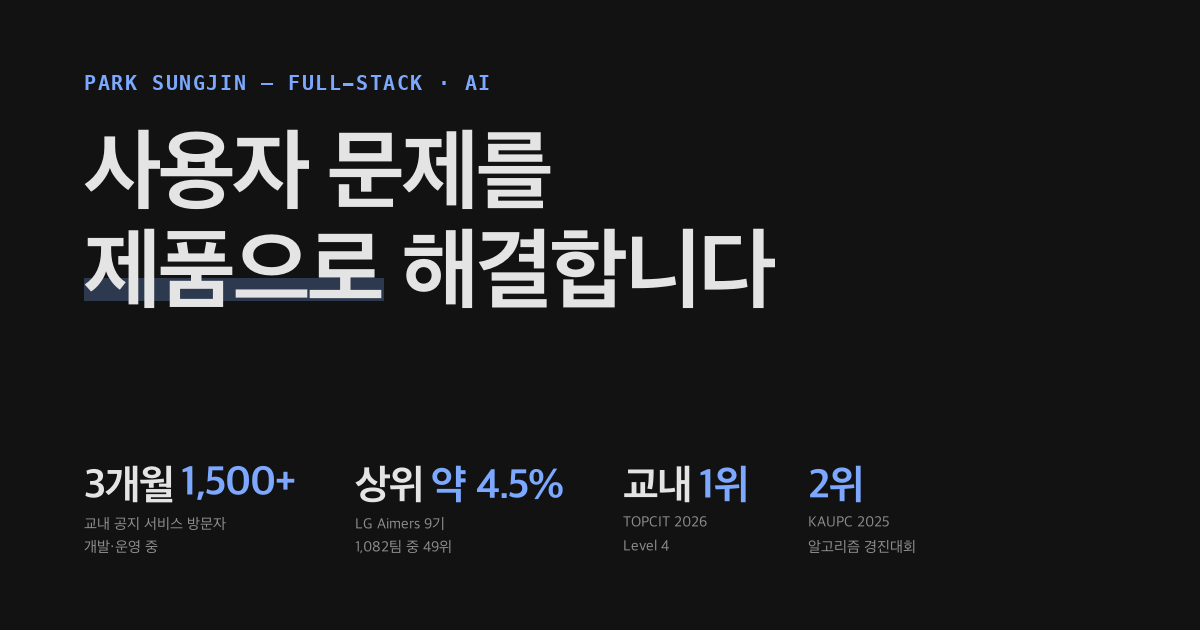
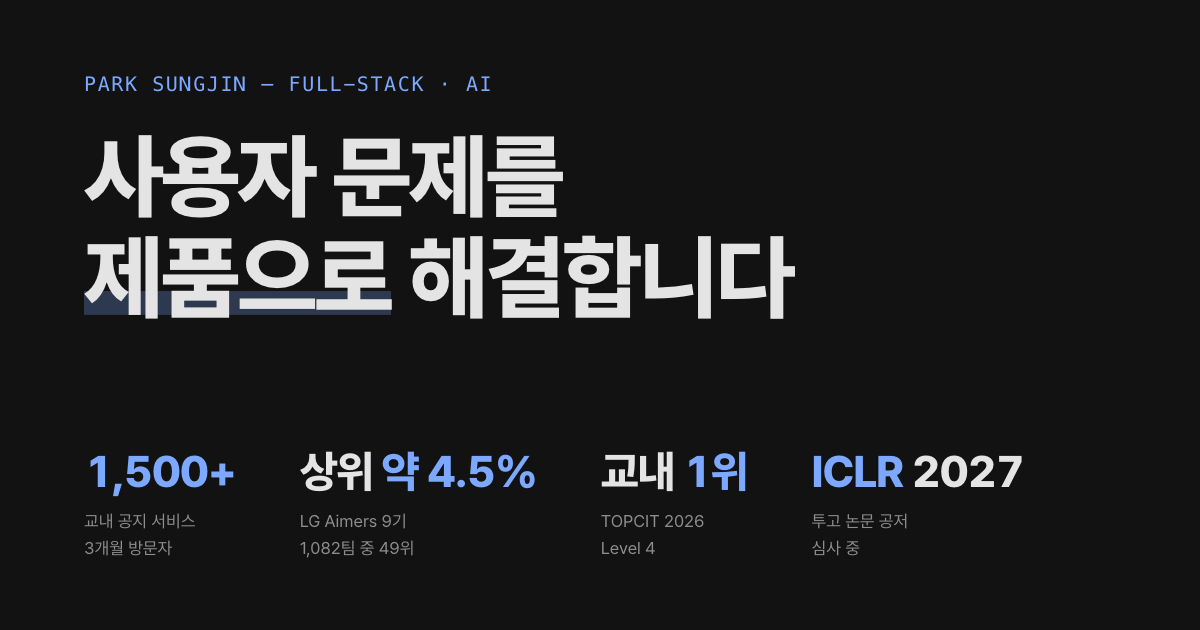
OG 이미지를 현재 히어로 지표로 다시 렌더(Pretendard)
- 지표: 1,500+ / 상위 약 4.5% / 교내 1위 / ICLR 2027 (KAUPC 2위 제거)
- 원본 tools/og.html 추가, README에 재렌더 명령 기록
- og:description 갱신, og:image에 ?v=2를 붙여 링크 프리뷰 캐시 갱신 유도

diff --git a/tools/og.html b/tools/og.html
@@ -1,0 +1,24 @@
+<!doctype html>
+<html lang="ko"><head><meta charset="utf-8">
+<link rel="stylesheet" href="https://cdn.jsdelivr.net/gh/orioncactus/pretendard@v1.3.9/dist/web/static/pretendard.min.css">
+<style>
+*{margin:0;padding:0;box-sizing:border-box}
+html,body{width:1200px;height:630px;background:#121212;color:#E4E4E4;overflow:hidden}
+body{font-family:Pretendard,"Apple SD Gothic Neo",sans-serif;padding:72px 84px 0;-webkit-font-smoothing:antialiased}
+.eyebrow{font-family:ui-monospace,"SF Mono",Menlo,monospace;font-size:20px;letter-spacing:.08em;color:#7CA9FF;text-transform:uppercase}
+h1{margin-top:30px;font-size:92px;font-weight:800;line-height:1.1;letter-spacing:-0.03em}
+.ul{background:linear-gradient(rgba(124,169,255,.26),rgba(124,169,255,.26)) no-repeat 0 80%/100% .26em}
+.stats{position:absolute;left:84px;right:84px;top:448px;display:flex;gap:64px;list-style:none}
+.num{font-size:44px;font-weight:800;letter-spacing:-0.03em;line-height:1.1;white-space:nowrap;font-variant-numeric:tabular-nums}
+.num em{font-style:normal;color:#7CA9FF}
+.lab{margin-top:12px;font-size:17px;line-height:1.55;color:rgba(255,255,255,.52)}
+</style></head><body>
+<p class="eyebrow">Park Sungjin — Full-stack · AI</p>
+<h1>사용자 문제를<br><span class="ul">제품으로</span> 해결합니다</h1>
+<ul class="stats">
+<li><b class="num"><em>1,500+</em></b><p class="lab">교내 공지 서비스<br>3개월 방문자</p></li>
+<li><b class="num">상위 <em>약 4.5%</em></b><p class="lab">LG Aimers 9기<br>1,082팀 중 49위</p></li>
+<li><b class="num">교내 <em>1위</em></b><p class="lab">TOPCIT 2026<br>Level 4</p></li>
+<li><b class="num"><em>ICLR</em> 2027</b><p class="lab">투고 논문 공저<br>심사 중</p></li>
+</ul>
+</body></html>

diff --git a/index.html b/index.html
@@ -12,9 +12,9 @@ document.documentElement.setAttribute('data-theme',t);})();
 <meta name="description" content="실사용자가 있는 RAG 서비스를 운영하고, 운영 데이터로 연구하는 풀스택·AI 개발자 박성진. 교내 공지 통합 서비스 KAU Notice Hub 운영(3개월 방문 1,500+), LG Aimers 9기 1,082팀 중 49위, TOPCIT 교내 1위.">
 <meta property="og:type" content="website">
 <meta property="og:title" content="박성진 — 풀스택·AI 개발자">
-<meta property="og:description" content="교내 공지 서비스 3개월 방문 1,500+ 운영 · LG Aimers 9기 상위 약 4.5% · TOPCIT 교내 1위">
+<meta property="og:description" content="교내 공지 RAG 서비스 3개월 방문 1,500+ 운영 · LG Aimers 9기 상위 약 4.5% · TOPCIT 교내 1위 · ICLR 2027 투고 논문 공저">
 <meta property="og:url" content="https://jinpop.github.io/">
-<meta property="og:image" content="https://jinpop.github.io/og.png">
+<meta property="og:image" content="https://jinpop.github.io/og.png?v=2">
 <meta property="og:locale" content="ko_KR">
 <meta name="twitter:card" content="summary_large_image">
 <link rel="canonical" href="https://jinpop.github.io/">

diff --git a/README.md b/README.md
@@ -9,6 +9,7 @@
 ```
 index.html   페이지 전체 (HTML · CSS · JS 인라인)
 og.png       링크 프리뷰용 OG 이미지 (1200×630)
+tools/og.html  og.png 원본 — 수정 후 아래 명령으로 다시 렌더
 img/         프로젝트 스크린샷 (WebP)
 ```
 
@@ -25,4 +26,10 @@ img/         프로젝트 스크린샷 (WebP)
 
 ```bash
 python3 -m http.server 4173
+```
+
+## OG 이미지 다시 만들기
+
+```bash
+"/Applications/Google Chrome.app/Contents/MacOS/Google Chrome" --headless=new --hide-scrollbars --force-device-scale-factor=1 --window-size=1200,630 --virtual-time-budget=8000 --screenshot="$PWD/og.png" "file://$PWD/tools/og.html"
 ```
